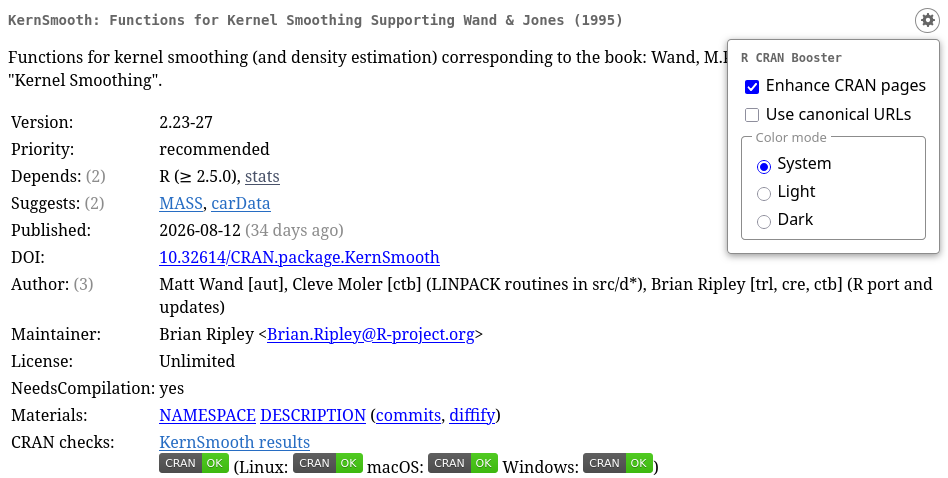
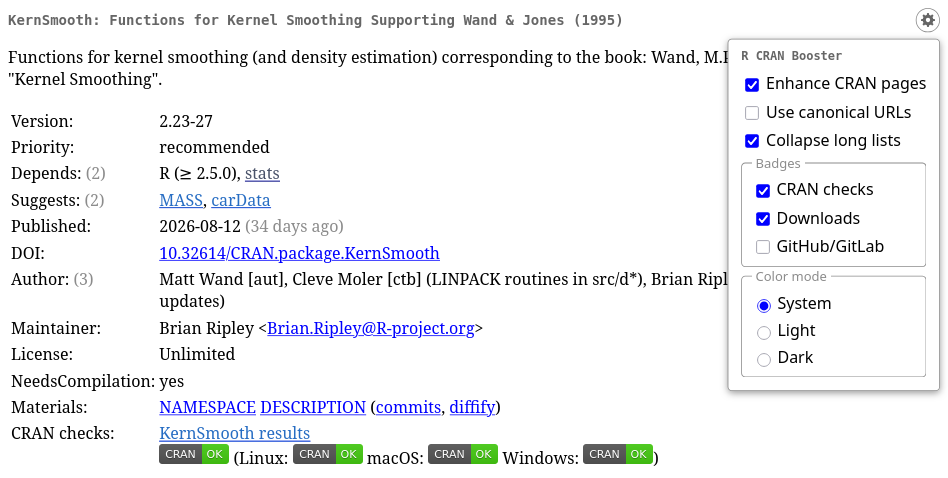
Refresh screenshots

diff --git a/README.md b/README.md
@@ -7,13 +7,13 @@
 
 'R CRAN Booster' is a Firefox browser extension that enhances the browsing experience on [The R Project](https://www.r-project.org)'s [CRAN](https://cran.r-project.org/) package pages.  It runs on Firefox 140 or later on the desktop, and on Firefox 142 or later on Android.  It does _not_ work on Google Chrome.
 
-<img src="screenshot-with.png" style="border: solid 1px black" alt="Screenshot showing the CRAN page for the 'KernSmooth' package with 'R CMD check' status badges injected next to the 'CRAN checks' entry, download statistics badges injected at the top of the 'Downloads' section, an 'install.packages()' field with a 'copy' button, author, dependency, and reverse-dependency counts, the number of days since the version was published, and a settings icon in the upper, right corner"/>
+<img src="screenshot-with.png" style="border: solid 1px black" alt="Screenshot showing the CRAN page for the 'KernSmooth' package with 'R CMD check' status badges injected next to the 'CRAN checks' entry, download statistics badges injected at the top of the 'Downloads' section, an 'install.packages()' field with a 'copy' button, author, dependency, and reverse-dependency counts, long reverse-dependency lists collapsed behind a 'show all' toggle, the number of days since the version was published, and a settings icon in the upper, right corner"/>
 
 ## Settings
 
 Clicking the settings icon in the upper, right corner opens a popup, where the injections can be turned off, canonical URLs can be turned on, the collapsing of long reverse-dependency lists can be turned off, each group of badges ('CRAN checks', 'Downloads', and 'GitHub/GitLab') can be turned on and off, and the color mode can be set to 'System' (default), 'Light', or 'Dark'.  The settings are remembered by the browser, and they apply to all CRAN package pages, also on other CRAN mirrors.
 
-<img src="screenshot-settings.png" style="border: solid 1px black" alt="Screenshot showing the top of the CRAN page for the 'KernSmooth' package with the settings popup opened, holding an 'Enhance CRAN pages' checkbox, a 'Use canonical URLs' checkbox, and a 'Color mode' group with 'System', 'Light', and 'Dark' options"/>
+<img src="screenshot-settings.png" style="border: solid 1px black" alt="Screenshot showing the top of the CRAN page for the 'KernSmooth' package with the settings popup opened, holding 'Enhance CRAN pages', 'Use canonical URLs', and 'Collapse long lists' checkboxes, a 'Badges' group with 'CRAN checks', 'Downloads', and 'GitHub/GitLab' checkboxes, and a 'Color mode' group with 'System', 'Light', and 'Dark' options"/>
 
 ## Installation
 
